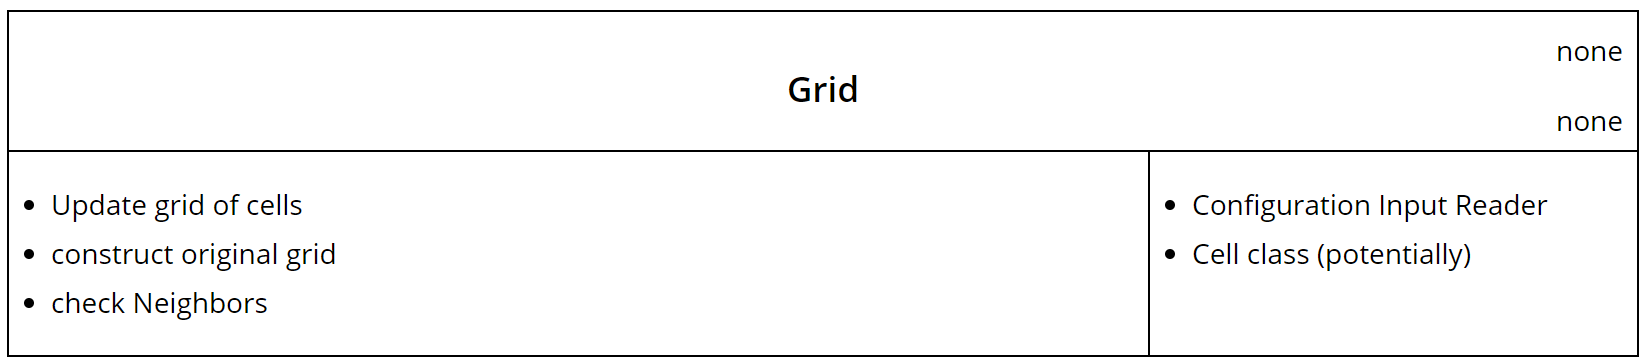
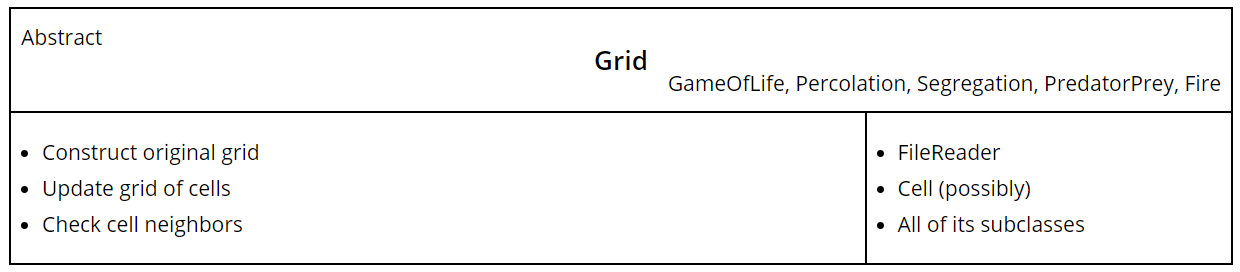
Changed plan a bit based on subclasses

diff --git a/doc/DESIGN_PLAN.md b/doc/DESIGN_PLAN.md
@@ -28,6 +28,9 @@ This handles most of the "back-end" of the program. It updates the values of the
 ![](resources/Main.PNG)
 ![](resources/Visualizer.PNG)
 
+The Grid class is an abstract class that has a subclass for each of the simulation types, which will provide their own
+implementations of rules. Classes and methods will be described in detail in Design Details. Everything else can be
+found in the CRC cards.
 
 ## User Interface
 ![User Interface](resources/UI.PNG)
@@ -55,21 +58,31 @@ To create the original grid, the main class will construct a new grid, passing i
 initial values for the cells. The grid will be implemented as a 2D array, or possibly a map. 
 The grid will have lookup capabilities in which you pass it a coordinate pair and it will tell return if the cell need
 to be updated by checking the values of the neighboring cells. This method will be able to check if the cell is on an edge.
-If it is then it will adjust which cells to check as neighbors. 
+If it is then it will adjust which cells to check as neighbors. Since Grid will be an abstract class, implemented by
+each class of the five simulations, the implementation of update methods will be slightly different based on the rules of
+each simulation.
 
 
 ### FileReader
 Reads in the XML file according to choice chosen by the user via the UI drop-down. It would look up the relevant XML file
-in the resources section then parse through it. Extracts which rule set to use based off game-type. 
+in the resources section then parse through it. Extracts which rule set to use based off game-type. The class interacts
+with the Grid class.
 
 ### Cell
-
+The Cell class is a potential class that we will have. Its responsibilities are to hold its current state, update its
+state, and return its state. The class might also hold an image to represent what is in the cell to help with
+visualization. Because the class isn't very active, we will continue to look for more functionalities of the class.
 
 ### Main
-
+The Main class handles the step function, which represents each frame of the simulation. It does this by invoking a 
+method in the Grid class to analyze each cell and see which ones need to be updated. The Main class also links the
+classes together, so that Visualizer and Grid can communicate with each other to set the display. This will allow the
+visualization to change when the user selects a different simulation type, as well as starting, stopping, and stepping
+through the simulation.
 
 ### Visualizer
-
+The Visualizer class displays what is read in from the xml file in the Grid class, and updates with each step in the
+Main class.
 
 ### Use Cases
 1.
